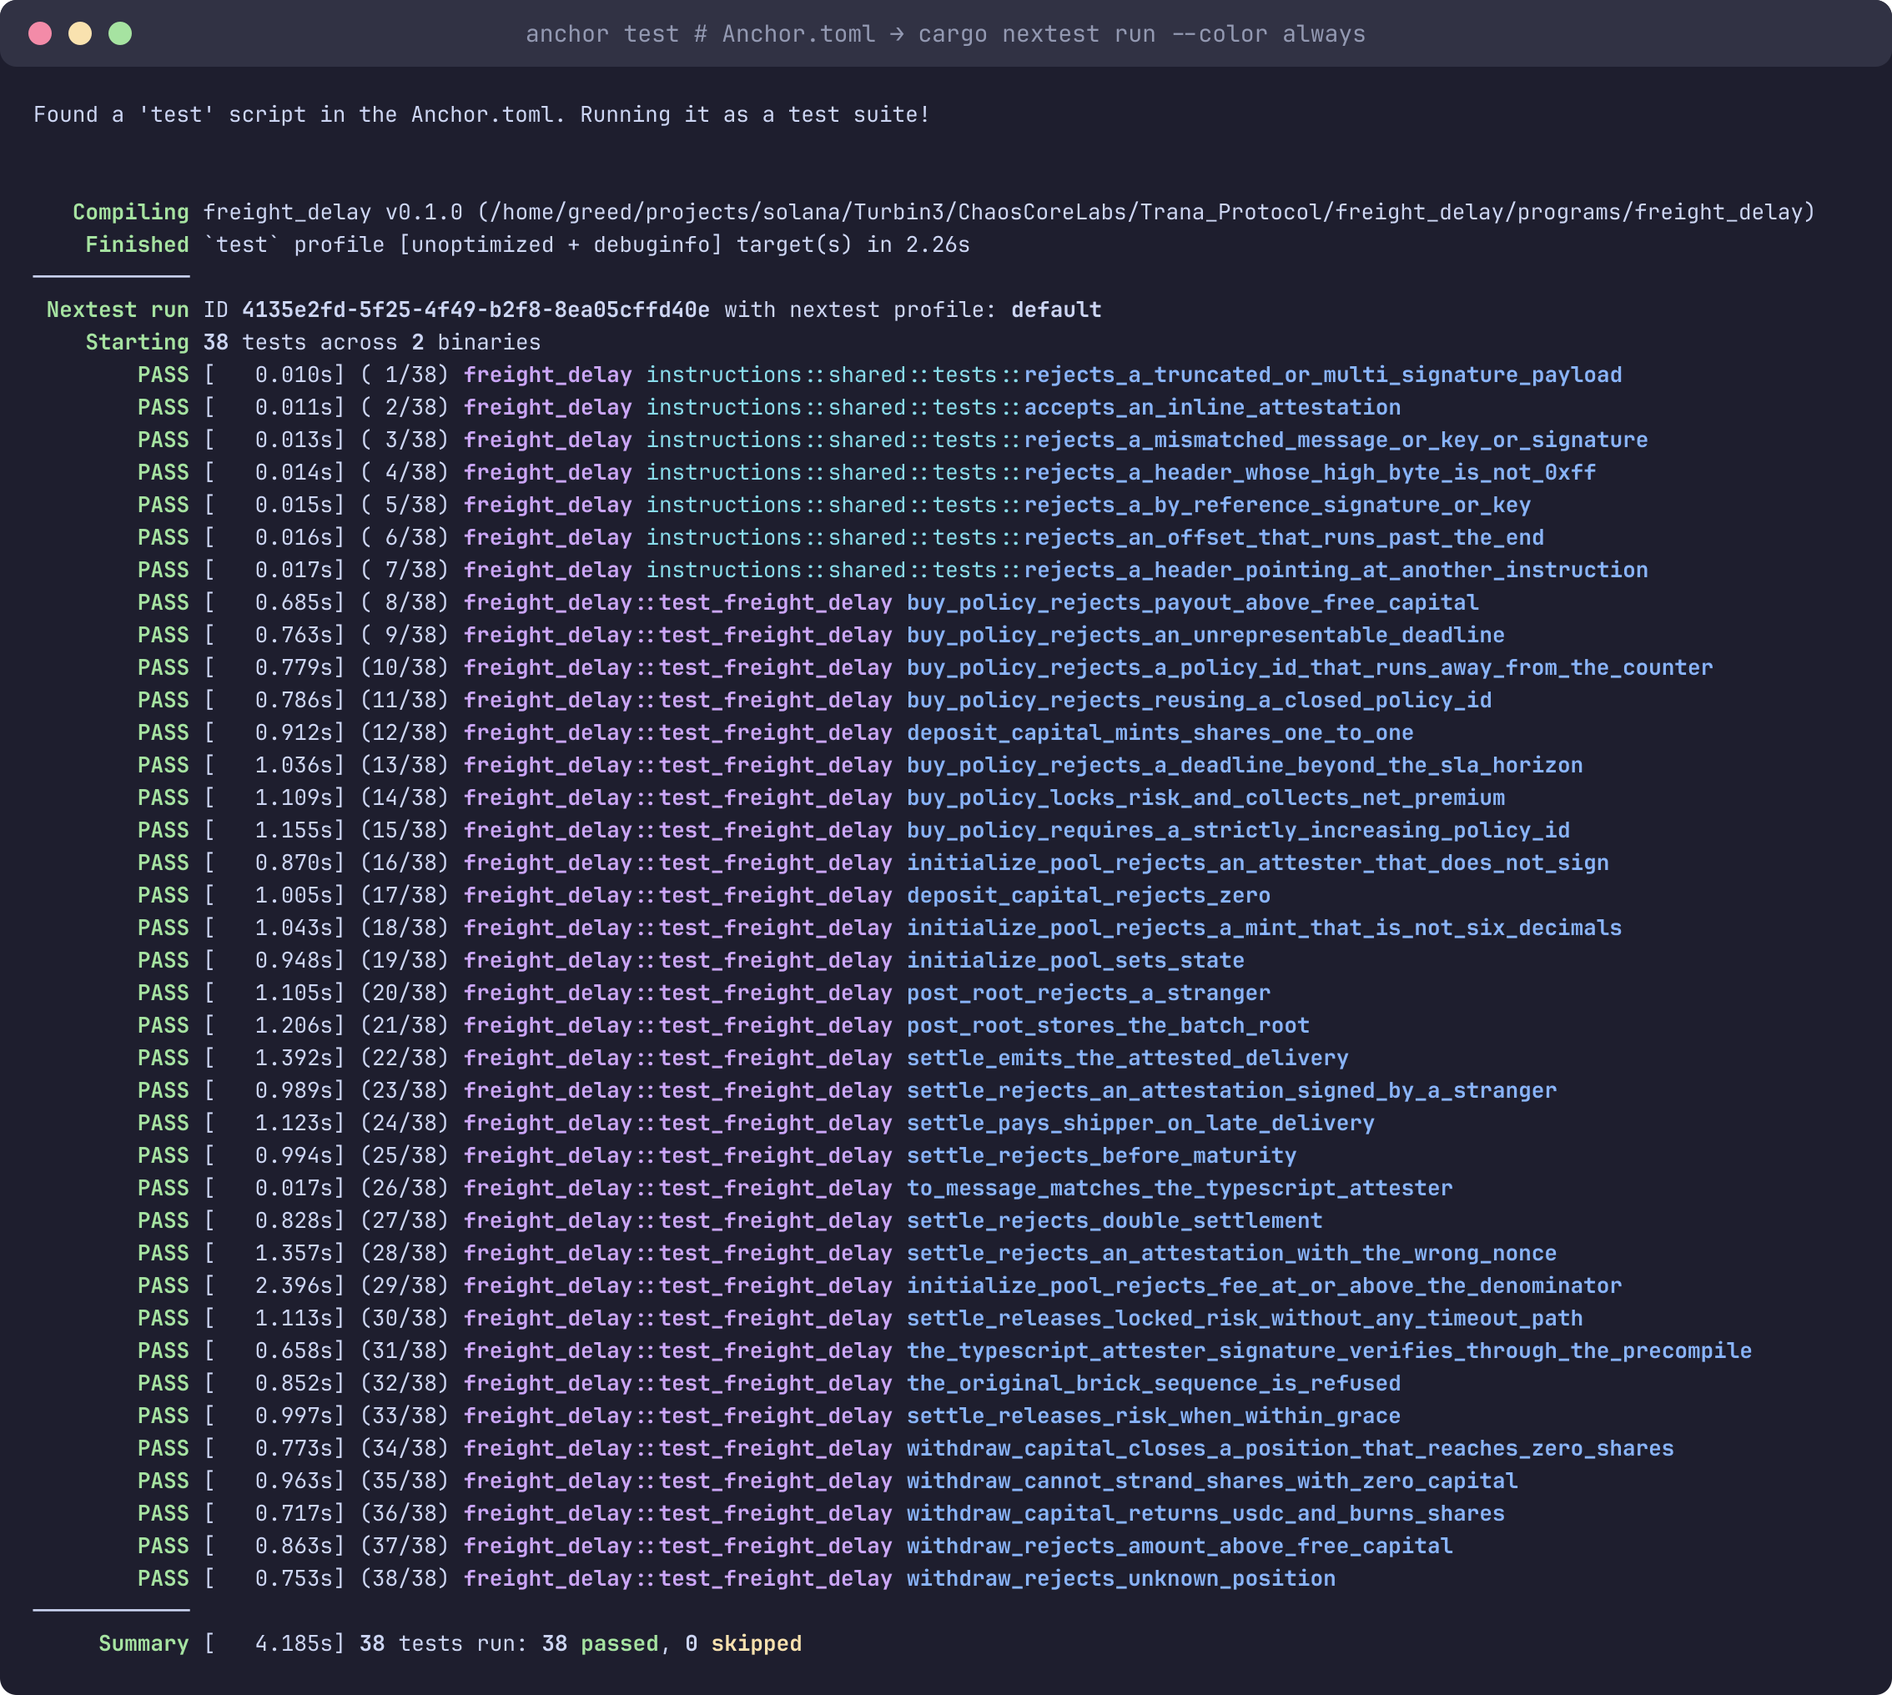
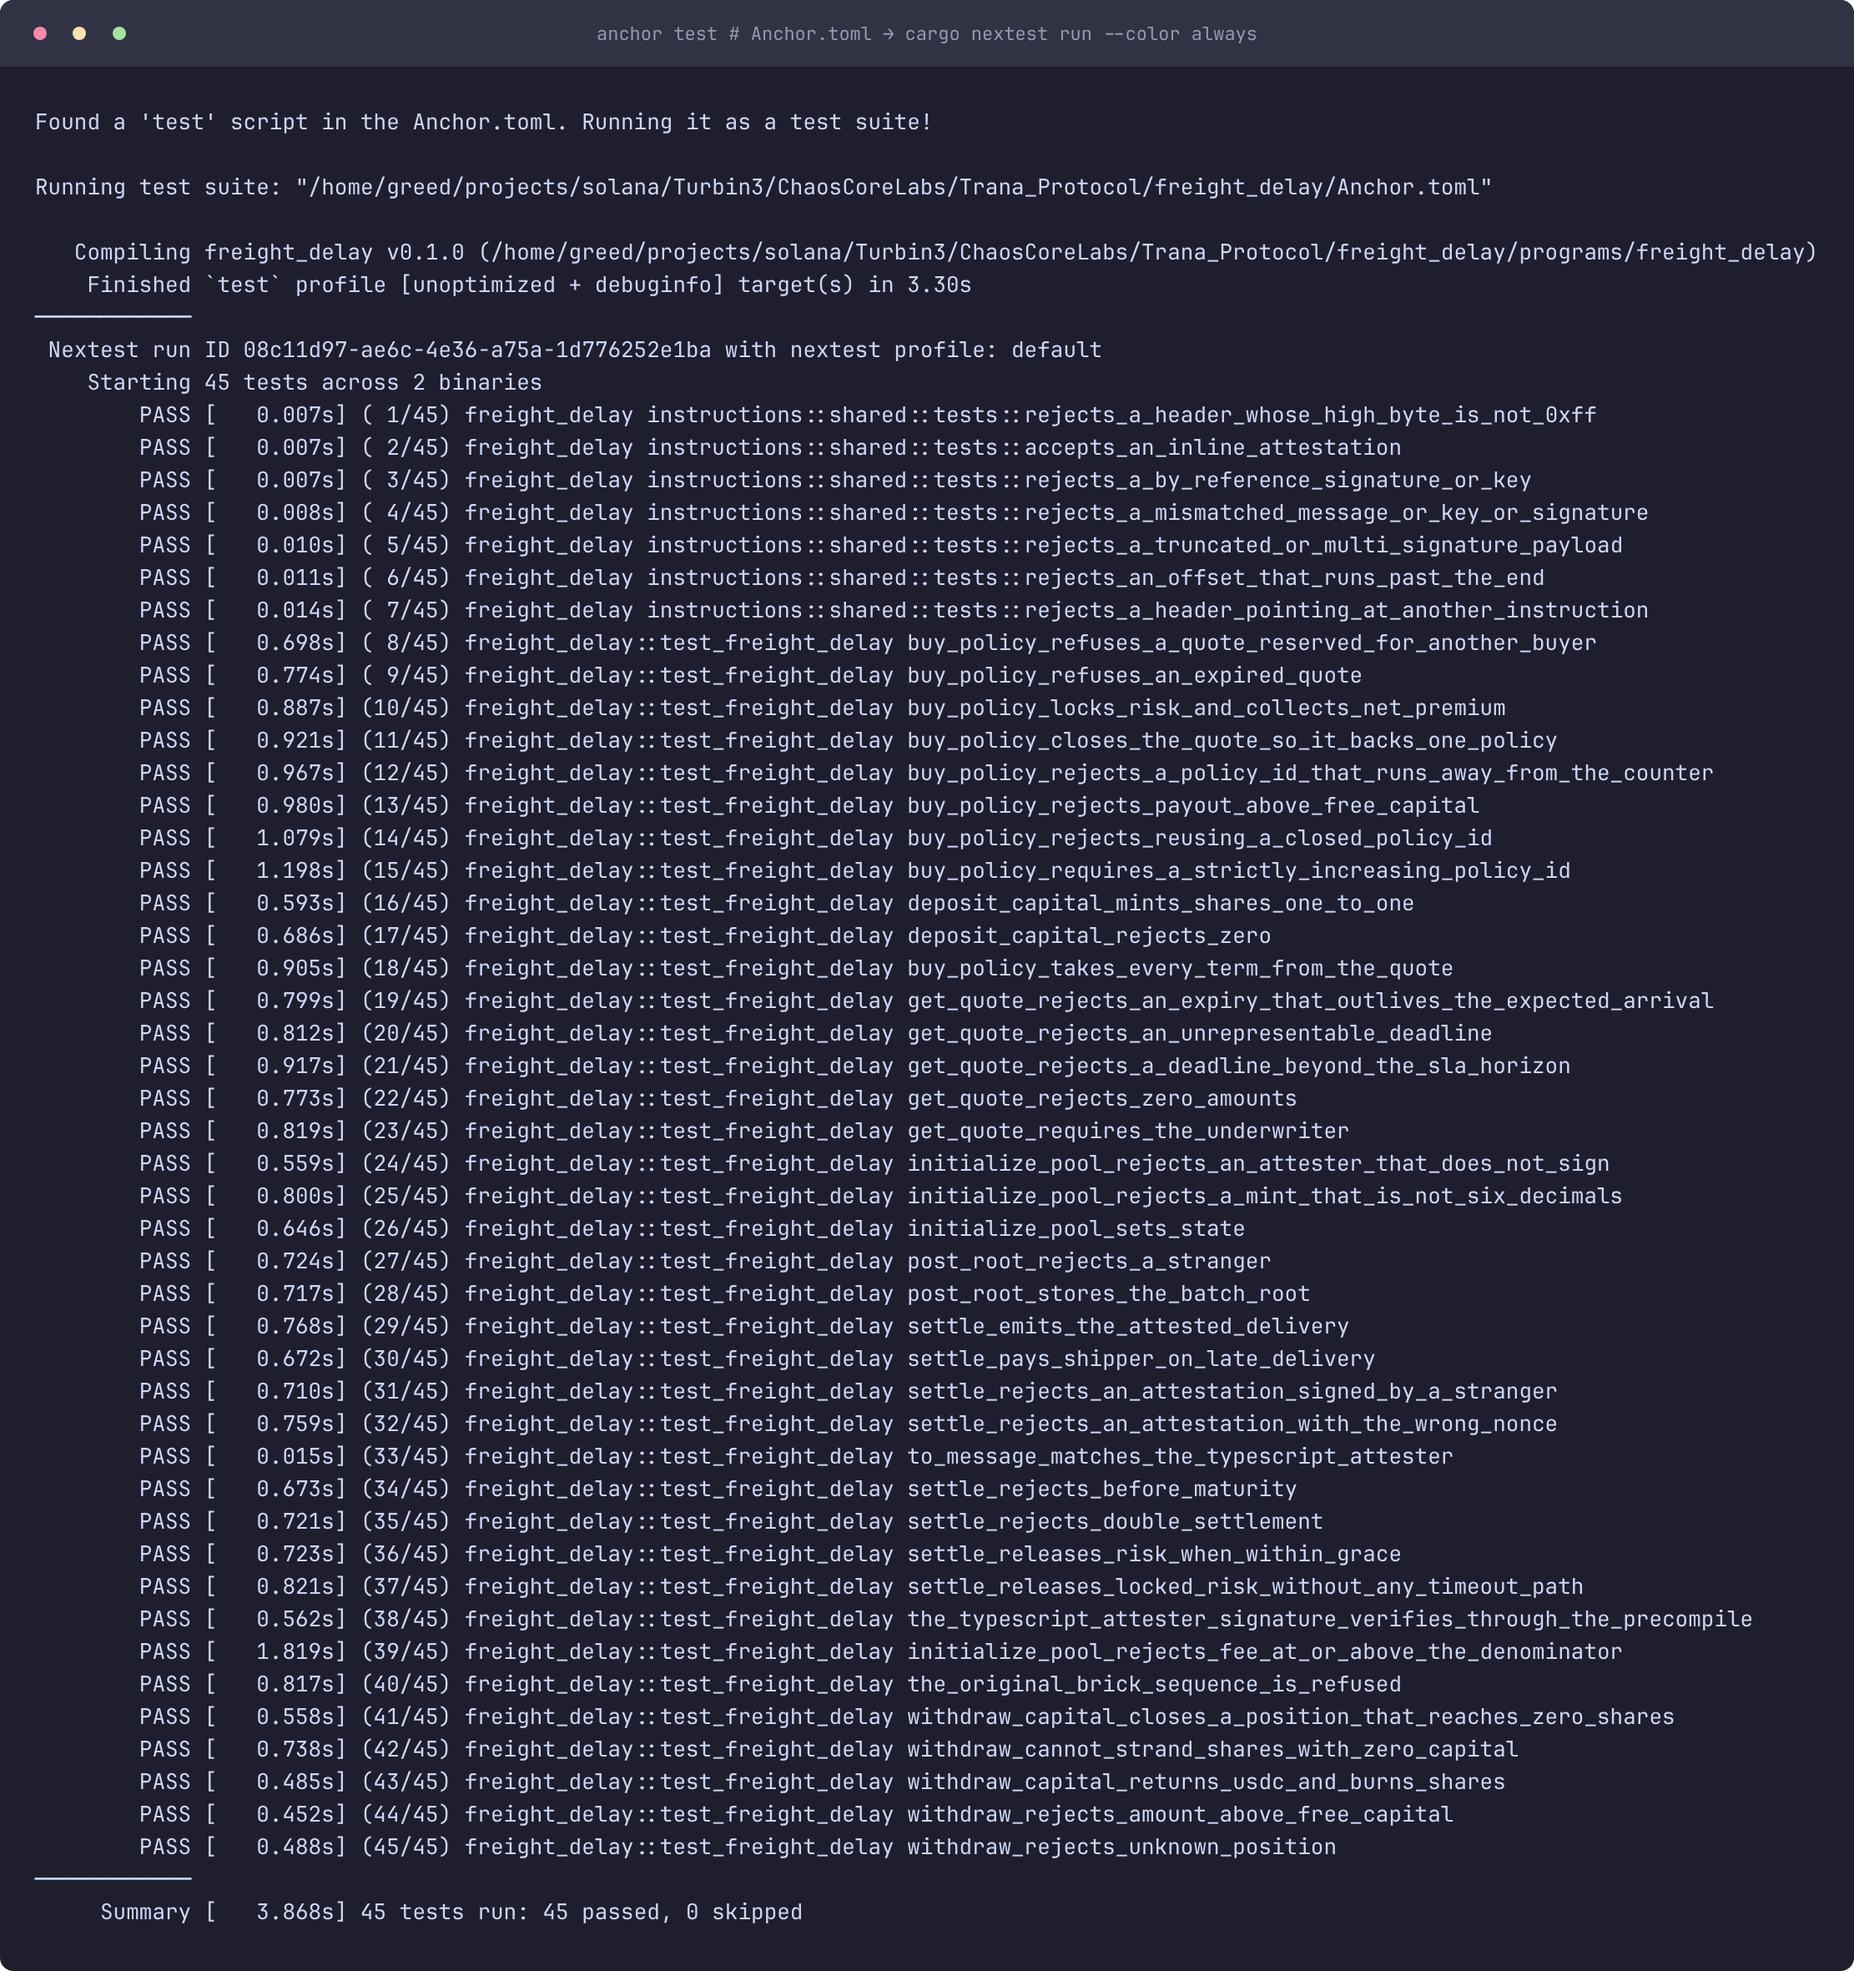
refactor(freight-delay): take get_quote's terms as one QuoteTerms argument
Also refreshes the README evidence screenshots and the stated test counts.

diff --git a/freight_delay/programs/freight_delay/tests/test_freight_delay.rs b/freight_delay/programs/freight_delay/tests/test_freight_delay.rs
@@ -6,7 +6,7 @@ use anchor_lang::{
 };
 use solana_ed25519_program::new_ed25519_instruction_with_signature;
 use base64::{Engine as _, engine::general_purpose::STANDARD as B64};
-use freight_delay::{accounts, events, instruction, instructions::shared::DeliveryAttestation};
+use freight_delay::{accounts, events, instruction, instructions::QuoteTerms, instructions::shared::DeliveryAttestation};
 use litesvm::{LiteSVM, types::TransactionResult};
 use litesvm_token::{
     CreateAssociatedTokenAccount, CreateMint, MintToChecked, TOKEN_ID, get_spl_account, spl_token,
@@ -285,14 +285,16 @@ fn author_quote(
     let ix = Instruction::new_with_bytes(
         freight_delay::id(),
         &instruction::GetQuote {
-            quote_id,
-            shipment_id: SHIPMENT_ID,
-            expected_delivery,
-            grace_period,
-            payout_amount,
-            premium_amount,
-            buyer,
-            expires_at,
+            terms: QuoteTerms {
+                quote_id,
+                shipment_id: SHIPMENT_ID,
+                expected_delivery,
+                grace_period,
+                payout_amount,
+                premium_amount,
+                buyer,
+                expires_at,
+            },
         }
         .data(),
         accounts::GetQuote {
@@ -1266,14 +1268,16 @@ fn get_quote_requires_the_underwriter() {
     let ix = Instruction::new_with_bytes(
         freight_delay::id(),
         &instruction::GetQuote {
-            quote_id: 1,
-            shipment_id: SHIPMENT_ID,
-            expected_delivery: expected,
-            grace_period: GRACE,
-            payout_amount: 10_000 * UNIT,
-            premium_amount: 1_000 * UNIT,
-            buyer: Pubkey::default(),
-            expires_at: expected,
+            terms: QuoteTerms {
+                quote_id: 1,
+                shipment_id: SHIPMENT_ID,
+                expected_delivery: expected,
+                grace_period: GRACE,
+                payout_amount: 10_000 * UNIT,
+                premium_amount: 1_000 * UNIT,
+                buyer: Pubkey::default(),
+                expires_at: expected,
+            },
         }
         .data(),
         accounts::GetQuote {

diff --git a/freight_delay/programs/freight_delay/src/instructions/get_quote.rs b/freight_delay/programs/freight_delay/src/instructions/get_quote.rs
@@ -7,8 +7,23 @@ use crate::{
     state::{PoolConfig, Quote},
 };
 
+/// The terms `get_quote` authors, passed as one argument. An offer is a single
+/// object, and eight positional numbers say less at a call site than one name.
+#[derive(AnchorSerialize, AnchorDeserialize, Clone)]
+pub struct QuoteTerms {
+    pub quote_id: u64,
+    pub shipment_id: u64,
+    pub expected_delivery: i64,
+    pub grace_period: i64,
+    pub payout_amount: u64,
+    pub premium_amount: u64,
+    /// `Pubkey::default()` leaves the quote open to any buyer.
+    pub buyer: Pubkey,
+    pub expires_at: i64,
+}
+
 #[derive(Accounts)]
-#[instruction(quote_id: u64)]
+#[instruction(terms: QuoteTerms)]
 pub struct GetQuote<'info> {
     #[account(mut)]
     pub underwriter: Signer<'info>,
@@ -21,7 +36,7 @@ pub struct GetQuote<'info> {
     #[account(
         init,
         payer = underwriter,
-        seeds = [QUOTE_SEED, config.key().as_ref(), quote_id.to_le_bytes().as_ref()],
+        seeds = [QUOTE_SEED, config.key().as_ref(), terms.quote_id.to_le_bytes().as_ref()],
         bump,
         space = 8 + Quote::INIT_SPACE,
     )]
@@ -30,19 +45,18 @@ pub struct GetQuote<'info> {
 }
 
 impl<'info> GetQuote<'info> {
-    #[allow(clippy::too_many_arguments)]
-    pub fn get_quote(
-        &mut self,
-        quote_id: u64,
-        shipment_id: u64,
-        expected_delivery: i64,
-        grace_period: i64,
-        payout_amount: u64,
-        premium_amount: u64,
-        buyer: Pubkey,
-        expires_at: i64,
-        bumps: GetQuoteBumps,
-    ) -> Result<()> {
+    pub fn get_quote(&mut self, terms: QuoteTerms, bumps: GetQuoteBumps) -> Result<()> {
+        let QuoteTerms {
+            quote_id,
+            shipment_id,
+            expected_delivery,
+            grace_period,
+            payout_amount,
+            premium_amount,
+            buyer,
+            expires_at,
+        } = terms;
+
         require_neq!(payout_amount, 0, FreightDelayError::InvalidAmount);
         require_neq!(premium_amount, 0, FreightDelayError::InvalidAmount);
 

diff --git a/freight_delay/programs/freight_delay/src/lib.rs b/freight_delay/programs/freight_delay/src/lib.rs
@@ -31,29 +31,8 @@ pub mod freight_delay {
         ctx.accounts.deposit_capital(amount, ctx.bumps)
     }
 
-    #[allow(clippy::too_many_arguments)]
-    pub fn get_quote(
-        ctx: Context<GetQuote>,
-        quote_id: u64,
-        shipment_id: u64,
-        expected_delivery: i64,
-        grace_period: i64,
-        payout_amount: u64,
-        premium_amount: u64,
-        buyer: Pubkey,
-        expires_at: i64,
-    ) -> Result<()> {
-        ctx.accounts.get_quote(
-            quote_id,
-            shipment_id,
-            expected_delivery,
-            grace_period,
-            payout_amount,
-            premium_amount,
-            buyer,
-            expires_at,
-            ctx.bumps,
-        )
+    pub fn get_quote(ctx: Context<GetQuote>, terms: QuoteTerms) -> Result<()> {
+        ctx.accounts.get_quote(terms, ctx.bumps)
     }
 
     pub fn buy_policy(ctx: Context<BuyPolicy>, policy_id: u64, quote_id: u64) -> Result<()> {

diff --git a/docs/freight_delay/reference/instructions.md b/docs/freight_delay/reference/instructions.md
@@ -32,7 +32,7 @@ instruction.
 `init_if_needed` is the only use of that constraint in the program, which is why
 the `anchor-lang` `init-if-needed` feature is enabled.
 
-## `get_quote(quote_id: u64, shipment_id: u64, expected_delivery: i64, grace_period: i64, payout_amount: u64, premium_amount: u64, buyer: Pubkey, expires_at: i64)`
+## `get_quote(terms: QuoteTerms)`
 
 | Account | Flags | Constraints |
 |---|---|---|
@@ -41,8 +41,16 @@ the `anchor-lang` `init-if-needed` feature is enabled.
 | `quote` | `mut`, **init** | `seeds = [quote, config, quote_id]`, `payer = underwriter`, `space = 8 + Quote::INIT_SPACE` |
 | `system_program` | read | — |
 
-`quote_id` appears in the seeds, so `#[instruction(quote_id: u64)]` is required on
-the struct. No token account and no mint: authoring terms moves no capital.
+`QuoteTerms` carries `quote_id`, `shipment_id`, `expected_delivery`,
+`grace_period`, `payout_amount`, `premium_amount`, `buyer` and `expires_at`; only
+`quote_id` is used in the seeds, so the struct needs
+`#[instruction(terms: QuoteTerms)]` and the seed reads `terms.quote_id`. No token
+account and no mint: authoring terms moves no capital.
+
+The IDL keeps that shape — one argument named `terms`, of defined type
+`QuoteTerms` — while Codama flattens it for the generated client, so a TypeScript
+caller still passes `quoteId`, `shipmentId`, … as top-level fields, exactly as it
+did when they were separate instruction arguments.
 
 A quote is the only place a price enters the program, which is why the
 `underwriter` constraint carries `FreightDelayError::Unauthorized` while the other

diff --git a/docs/freight_delay/introduction/scope.md b/docs/freight_delay/introduction/scope.md
@@ -10,7 +10,7 @@ Trana_Protocol/
 ├── freight_delay/
 │   ├── programs/freight_delay/
 │   │   ├── src/              # the Anchor program
-│   │   └── tests/            # LiteSVM integration tests (31 tests)
+│   │   └── tests/            # LiteSVM integration tests (38 tests)
 │   ├── runbooks/             # surfpool / txtx deploy scaffolding
 │   └── Anchor.toml
 ├── mise.toml                 # toolchain pins
@@ -96,7 +96,9 @@ addresses; `Anchor.toml` defaults to `localnet`, so a devnet deploy passes
 
 The build that added `get_quote` grew `PoolConfig` by one key (`underwriter`), so
 a pool created by an earlier build has the wrong account size and must be
-re-initialised rather than reused.
+re-initialised rather than reused. That build is what devnet runs: the program was
+upgraded in place on 2026-10-14 (slot `510913195`, ProgramData auto-extended to
+330,704 bytes), and every pool the earlier build created is now unreadable.
 
 The devnet walkthrough (`freight_delay/scripts/devnet-e2e.ts`) is the only code here
 that spends anything, and it spends nothing of value: it creates its own 6-decimal SPL

diff --git a/README.md b/README.md
@@ -25,6 +25,7 @@ no frontend, SDK, or indexer.
 | ProgramData | `2kd8QbYc9EA2EjTibvzBU9i7KFwHdGTY4gakNeT6SauV` |
 | Upgrade authority | `9aDCHGpiQdGber46fa2hXCC1wYp3bu4f28Tc5fV26fzo` |
 | Deployed | 2026-10-12, slot `510345988`, 304,344 bytes of program data |
+| Last upgraded | 2026-10-14, slot `510913195`, 330,704 bytes — the `get_quote` / `Quote` build |
 
 [Program on Solana Explorer](https://explorer.solana.com/address/4BtUosFfNUySEGAGspfjvStCzLzqSRdfoc4Z3Z1uqGJs?cluster=devnet)
 
@@ -47,7 +48,7 @@ Everything green is reproducible with two commands:
 | LiteSVM suite (in-process, the same `.so` the deploy ships) | `anchor build && cargo nextest run` | **45 passed**, 0 failed |
 | Devnet end-to-end: `initialize_pool` → `deposit_capital` → `get_quote` + `buy_policy` ×2 → `settle_policy` (late + on-time) → `post_root` | `bun run devnet-e2e` | **all checks passed on devnet** |
 
-![LiteSVM suite: 38 tests passed](freight_delay/assets/tests-nextest.webp)
+![LiteSVM suite: 45 tests passed](freight_delay/assets/tests-nextest.webp)
 
 ![Devnet end-to-end run: all checks passed](freight_delay/assets/devnet-e2e.webp)
 

diff --git a/docs/freight_delay/protocol/instructions.md b/docs/freight_delay/protocol/instructions.md
@@ -92,18 +92,15 @@ Authors the terms a policy is later sold on. Only the pool's `underwriter` may
 call it, so the price enters the protocol here and nowhere else.
 
 ```rust
-pub fn get_quote(
-    ctx: Context<GetQuote>,
-    quote_id: u64,
-    shipment_id: u64,
-    expected_delivery: i64,
-    grace_period: i64,
-    payout_amount: u64,
-    premium_amount: u64,
-    buyer: Pubkey,
-    expires_at: i64,
-) -> Result<()>
+pub fn get_quote(ctx: Context<GetQuote>, terms: QuoteTerms) -> Result<()>
 ```
+
+The eight terms ride in one `QuoteTerms` argument — the same shape
+`settle_policy` uses for `DeliveryAttestation` — so a call site reads as a single
+offer rather than a row of positional numbers. Its fields are `quote_id`,
+`shipment_id`, `expected_delivery`, `grace_period`, `payout_amount`,
+`premium_amount`, `buyer` and `expires_at`, and only `quote_id` is consulted by the
+account constraints.
 
 - **Signer:** `underwriter`, pinned to `config.underwriter`.
 - **Guards, in order:** `payout_amount != 0`; `premium_amount != 0`;

diff --git a/freight_delay/README.md b/freight_delay/README.md
@@ -119,7 +119,7 @@ is.
 
 ## Test evidence
 
-![LiteSVM suite: 38 tests passed](assets/tests-nextest.webp)
+![LiteSVM suite: 45 tests passed](assets/tests-nextest.webp)
 
 ![Devnet end-to-end run: all checks passed](assets/devnet-e2e.webp)
 
